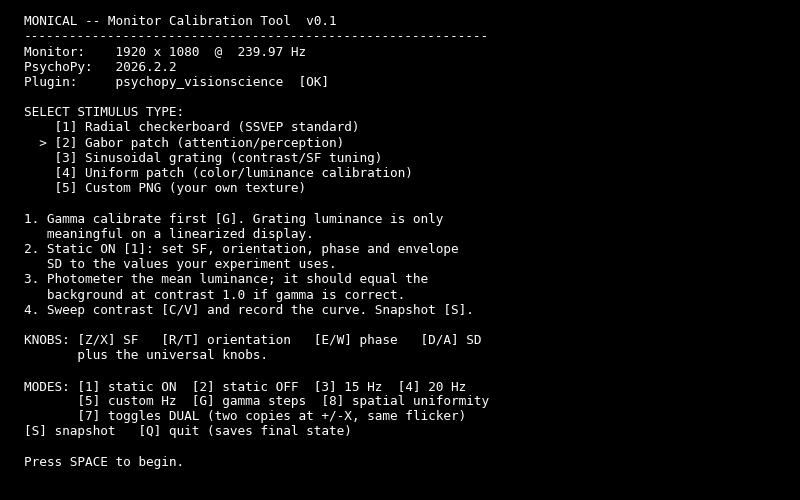
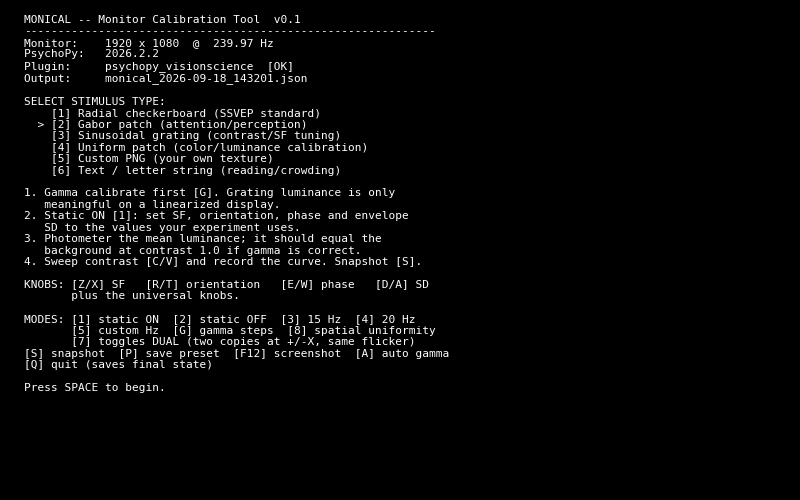
docs: intro preview shows all six stimulus types
- tools/generate_previews.py: INTRO_TEXT was a stale snapshot missing option
  [6] entirely. Re-synced verbatim from build_intro_text(), so the preview
  now also shows the Output: filename line and the current action keys.
  Font 9.2 -> 8.0 for the taller 33-line screen; overflowing text makes
  bbox_inches='tight' grow the image rather than clip it.
- Text label becomes "Text / letter string (reading/crowding)" in
  STIMULUS_LABELS so the app and the preview agree, and so all six labels
  carry a parenthetical.
- README stimulus grid already listed all six with docs/img/text.png.

Changed region(s): [[0.0312, 0.03, 0.625, 0.87], [0.0312, 0.9, 0.2188, 0.93]]

diff --git a/tools/generate_previews.py b/tools/generate_previews.py
@@ -274,6 +274,7 @@ MONICAL -- Monitor Calibration Tool  v0.1
 Monitor:    1920 x 1080  @  239.97 Hz
 PsychoPy:   2026.2.2
 Plugin:     psychopy_visionscience  [OK]
+Output:     monical_2026-09-18_143201.json
 
 SELECT STIMULUS TYPE:
     [1] Radial checkerboard (SSVEP standard)
@@ -281,6 +282,7 @@ SELECT STIMULUS TYPE:
     [3] Sinusoidal grating (contrast/SF tuning)
     [4] Uniform patch (color/luminance calibration)
     [5] Custom PNG (your own texture)
+    [6] Text / letter string (reading/crowding)
 
 1. Gamma calibrate first [G]. Grating luminance is only
    meaningful on a linearized display.
@@ -296,7 +298,8 @@ KNOBS: [Z/X] SF   [R/T] orientation   [E/W] phase   [D/A] SD
 MODES: [1] static ON  [2] static OFF  [3] 15 Hz  [4] 20 Hz
        [5] custom Hz  [G] gamma steps  [8] spatial uniformity
        [7] toggles DUAL (two copies at +/-X, same flicker)
-[S] snapshot   [Q] quit (saves final state)
+[S] snapshot  [P] save preset  [F12] screenshot  [A] auto gamma
+[Q] quit (saves final state)
 
 Press SPACE to begin."""
 
@@ -346,8 +349,9 @@ def main():
 
     # 6 lines, longest 105 chars: 8.2pt keeps it inside 800px.
     save(text_screen(HUD_TEXT, 8.2), 'hud_example.png', TEXT_BG)
-    # 31 lines: 9.2pt at 1.22 spacing fills the canvas without overflowing it.
-    save(text_screen(INTRO_TEXT, 9.2, linespacing=1.22),
+    # 33 lines: 8.0pt at 1.18 spacing fits 800x500. Overflowing text makes
+    # bbox_inches='tight' GROW the saved image instead of clipping it.
+    save(text_screen(INTRO_TEXT, 8.0, linespacing=1.18),
          'intro_screen.png', TEXT_BG)
 
     print('Done: {} images.'.format(len(STIMULI) + 3))

diff --git a/monical.py b/monical.py
@@ -113,7 +113,7 @@ STIMULUS_LABELS = {
     STIM_GRATING: 'Sinusoidal grating (contrast/SF tuning)',
     STIM_UNIFORM: 'Uniform patch (color/luminance calibration)',
     STIM_CUSTOM_PNG: 'Custom PNG (your own texture)',
-    STIM_TEXT: 'Text / letter string',
+    STIM_TEXT: 'Text / letter string (reading/crowding)',
 }
 
 # PRD 4.6. Monospaced so glyph width is uniform and letter height maps
